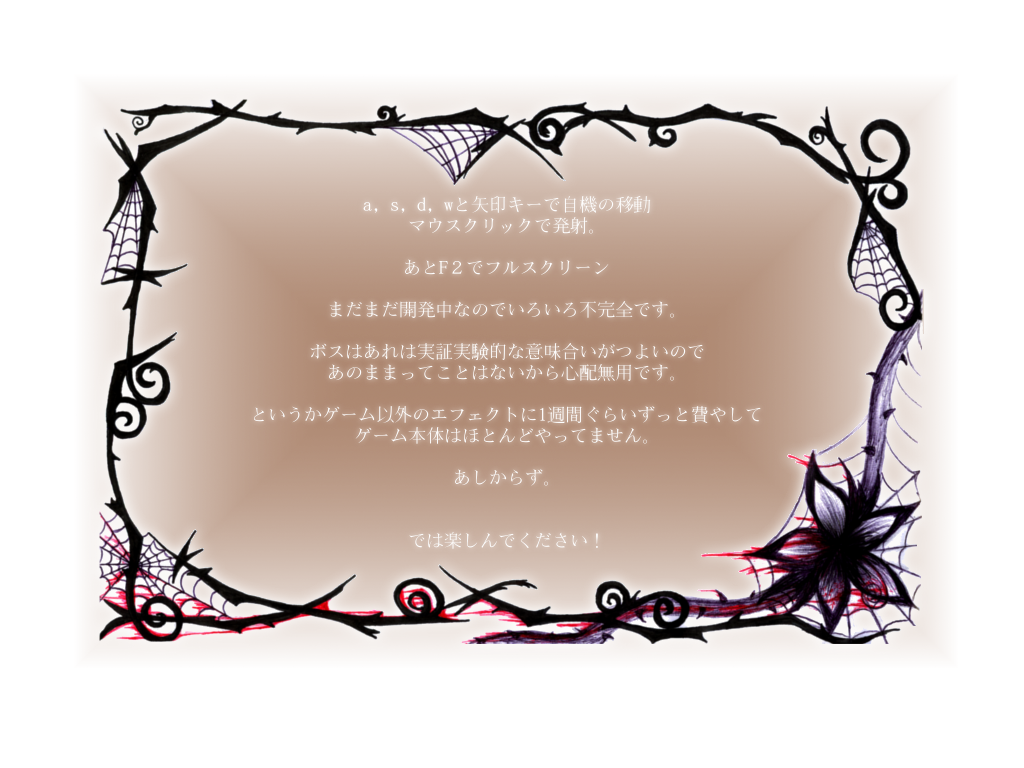
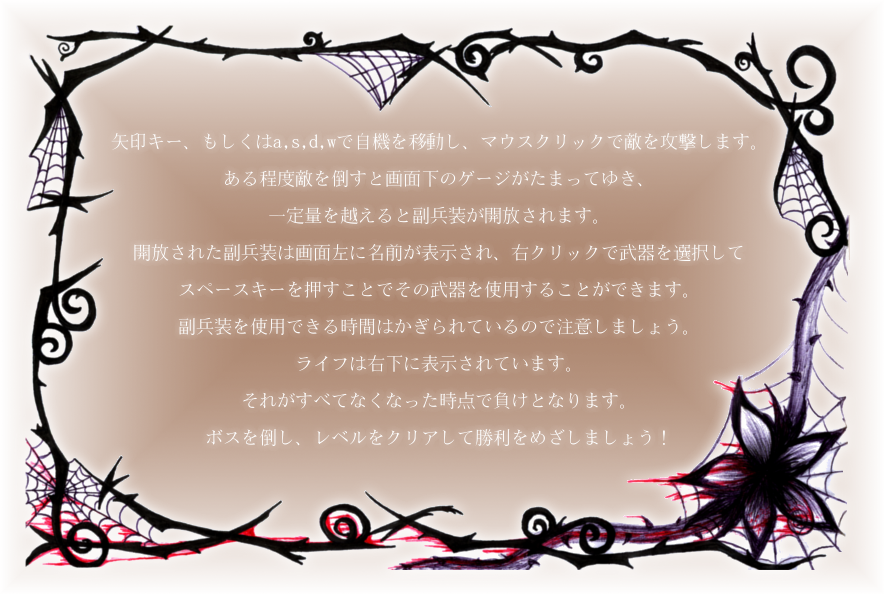
Add many many features Current Weapon Panel Weapon Selector Object to Sprite in HELP screen Update help contents Bomb

diff --git a/lib/objects/play.py b/lib/objects/play.py
@@ -5,6 +5,7 @@ import pygame
 from pygame.locals import *
 import math
 import random
+import time
 from collections    import deque
 
 from lib.constants  import *
@@ -39,7 +40,8 @@ def recycle_or_gen_object(obj, *options):
 
 class PlayDraw():
 
-    shot_reload_time = 5
+    shot_reload_time = 5  #FIXME move to gamedata
+    select_weapon_wait = 0.12
 
     def __init__(self, gamedata):
         # Create sprite groups
@@ -55,6 +57,7 @@ class PlayDraw():
         EColi2.containers           = self.play_all, self.enemies
         BigEColi.containers         = self.play_all, self.enemies, self.bosses
         Shot.containers             = self.play_all, self.shots
+        Bomb.containers             = self.play_all
         Explosion.containers        = self.play_all
         HeartMark.containers        = self.play_all
         Gage.containers             = self.play_all
@@ -82,11 +85,13 @@ class PlayDraw():
         self.bg_play = BackgroundPlay(gamedata.level)
         self.gage = Gage(gamedata)
         self.weaponpanel = WeaponPanel()
-        self.dispweapon = DisplayWeapon()
+        self.dispweapon = DisplayWeapon(gamedata)
 
         self.gamedata = gamedata
         self.boss = None
         self.gameover = False
+        self.select_weapon_timer = 0
+        self.bomb = None
 
         # Shot reloading
         self.shot_reload_timer = 0
@@ -122,8 +127,10 @@ class PlayDraw():
                 self.weaponpanel.set_enable(2, False)
 
             # Select
-            if pygame.mouse.get_pressed()[2]:
-                self.weaponpanel.select_next()
+            if time.clock() - self.select_weapon_timer > self.select_weapon_wait:
+                if pygame.mouse.get_pressed()[2]:
+                    self.weaponpanel.select_next()
+                    self.select_weapon_timer = time.clock()
 
             # Launch
             pressed_keys = pygame.key.get_pressed()
@@ -149,6 +156,7 @@ class PlayDraw():
                     self.weaponpanel.set_enable(0, False)
                     self.weaponpanel.set_enable(1, False)
                     self.weaponpanel.set_enable(2, False)
+                    self.bomb = Bomb()
 
             # Reload
             self.shot_reload_timer -= 1
@@ -194,7 +202,13 @@ class PlayDraw():
 
         elif self.gamedata.weapon_mode == self.gamedata.BOMB:
 
-            # FIXME FIXME
+            if not self.bomb.alive():
+                for enemy in self.enemies:
+                    if not enemy.hit(30):  #FIXME
+                        enemy.kill()
+                        self.gamedata.killed_enemies(1)       # FIXME
+                        recycle_or_gen_object(Explosion, enemy.rect.center) # Draw explosion
+                self.gamedata.subweapon_counter = 0
 
             # Time limit which a player is able to use this weapon
             if self.gamedata.subweapon_counter <= self.gamedata.subweapon_limiter:
@@ -237,7 +251,7 @@ class PlayDraw():
         """ Between enemies and shots """
         enemy_collided = pygame.sprite.groupcollide(self.enemies, self.shots, False, True)
         for enemy, shots in enemy_collided.items():
-            if not enemy.hit_once():
+            if not enemy.hit(1):  #FIXME
                 enemy.kill()                    # Kill an enemy
                 self.gamedata.killed_enemies(1)       # FIXME
                 recycle_or_gen_object(Explosion, shots[0].rect.center) # Draw explosion
@@ -519,6 +533,30 @@ class SextupleShot():
         recycle_or_gen_object(Shot, start, None, degree+300 if degree+300<180 else degree-60)
         del self
 
+class Bomb(pygame.sprite.Sprite):
+
+    speed = 30
+
+    def __init__(self):
+        pygame.sprite.Sprite.__init__(self, self.containers)
+
+        self.base_img = pygame.Surface(SCR_RECT.size, SRCALPHA|HWSURFACE)
+        self.image = self.base_img.copy()
+        self.rect = SCR_RECT    
+
+        self.start = player_pos
+        self.radius = 5
+        self.width = 1
+
+    def update(self):
+        self.image = self.base_img.copy()
+        pygame.draw.circle(self.image, (255,255,255), self.start, self.radius, self.width)
+
+        self.radius += self.speed
+
+        if self.radius > 1280:
+            self.kill()
+
 
 #########################################################################################
 #                     ENEMIES                                                           #
@@ -577,10 +615,10 @@ class EColi(pygame.sprite.Sprite):
         self.rect.x = int(self.fpx)
         self.rect.y = int(self.fpy)
 
-    def hit_once(self):
+    def hit(self, p):
 
         # Player's shot hit me!
-        self.hp -= 1
+        self.hp -= p
         return self.hp > 0
 
     def kill(self):
@@ -653,10 +691,10 @@ class EColi2(pygame.sprite.Sprite):
         self.rect.x = int(self.fpx)
         self.rect.y = int(self.fpy)
 
-    def hit_once(self):
+    def hit(self, p):
 
         # Player's shot hit me!
-        self.hp -= 1
+        self.hp -= p
         self.blink_timer = 40
         return self.hp > 0
 
@@ -721,10 +759,10 @@ class BigEColi(pygame.sprite.Sprite):
 
             self.frame += self.av
             
-    def hit_once(self):
+    def hit(self, p):
 
         # Player's shot hit me!
-        self.hp -= 1
+        self.hp -= p
         return self.hp > 0
 
 
@@ -805,7 +843,6 @@ class HeartMark(pygame.sprite.Sprite):
                 self.kill()
 
             self.image = self.image.copy()
-            #self.image.set_alpha(255*(1- self.destroy_frame/float(self.destroy_limit)))
             set_transparency_to_surf(self.image, 255*(1- self.destroy_frame/float(self.destroy_limit)))
 
             self.destroy_frame += 1
@@ -817,7 +854,6 @@ class HeartMark(pygame.sprite.Sprite):
 class Gage(pygame.sprite.Sprite):
     """Score Gage"""
 
-    #pos = (28, 18)  #FIXME FIXME
     pos = (28, 738)
 
     def __init__(self, gamedata):
@@ -1025,11 +1061,23 @@ class DisplayWeapon(pygame.sprite.Sprite):
 
     pos = (20, 738-70)
 
-    def __init__(self):
+    def __init__(self, gamedata):
         pygame.sprite.Sprite.__init__(self, self.containers)
+        self.dirty = 2
 
+        self.image = self.images[0]
         self.rect = self.image.get_rect()
         self.rect.topleft = self.pos
 
+        self.gamedata = gamedata
 
+    def update(self):
+        if self.gamedata.weapon_mode == self.gamedata.SHOT:
+            self.image = self.images[0]
+        elif self.gamedata.weapon_mode == self.gamedata.SUBSHOT:
+            self.image = self.images[1]
+        elif self.gamedata.weapon_mode == self.gamedata.MACHINEGUN:
+            self.image = self.images[2]
+        elif self.gamedata.weapon_mode == self.gamedata.BOMB:
+            self.image = self.images[3]
 

diff --git a/lib/objects/help.py b/lib/objects/help.py
@@ -171,12 +171,15 @@ class CoverHelp(pygame.sprite.DirtySprite):
 
 class ContentsHelp(pygame.sprite.DirtySprite):
     
+    pos = (74, 74)
+
     def __init__(self, cover_help):
         pygame.sprite.DirtySprite.__init__(self, self.containers)
         self.dirty = 2
 
         self.none_image = pygame.Surface((0,0))
         self.rect = self.image.get_rect()
+        self.rect.topleft = self.pos
         self.cover_help = cover_help
 
         self.original_image = self.image.copy()
@@ -187,6 +190,7 @@ class ContentsHelp(pygame.sprite.DirtySprite):
         else:
             self.image = self.none_image
             self.rect = self.image.get_rect()
+            self.rect.topleft = self.pos
 
 
 class PushSpaceHelp(PushSpaceStart):

diff --git a/Guerrilla.py b/Guerrilla.py
@@ -216,7 +216,7 @@ class Guerrilla(object):
         HeartMark.images                = load_image("heart-animation.png", 96)
         WeaponPanel.images              = [load_image("weaponpanel"+str(x)+".png") for x in range(1, 4)]
         WeaponSelector.image            = load_image("weapon-selector-arrow.png")
-        DisplayWeapon.image             = load_image("current-weapon-bg.png")
+        DisplayWeapon.images            = [load_image("current-weapon"+str(x)+".png") for x in range(1, 5)]
 
         # Gage
         Gage.image_red                  = load_image("gage-red.png")
